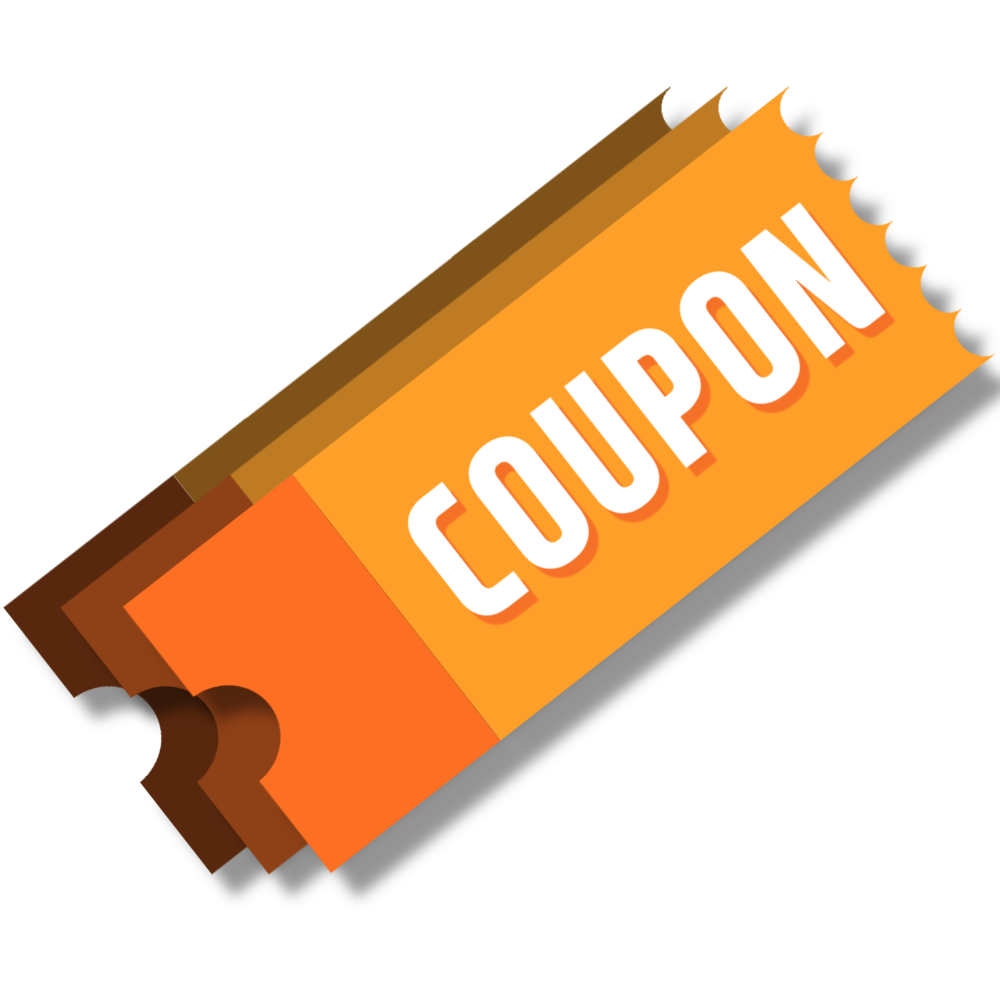
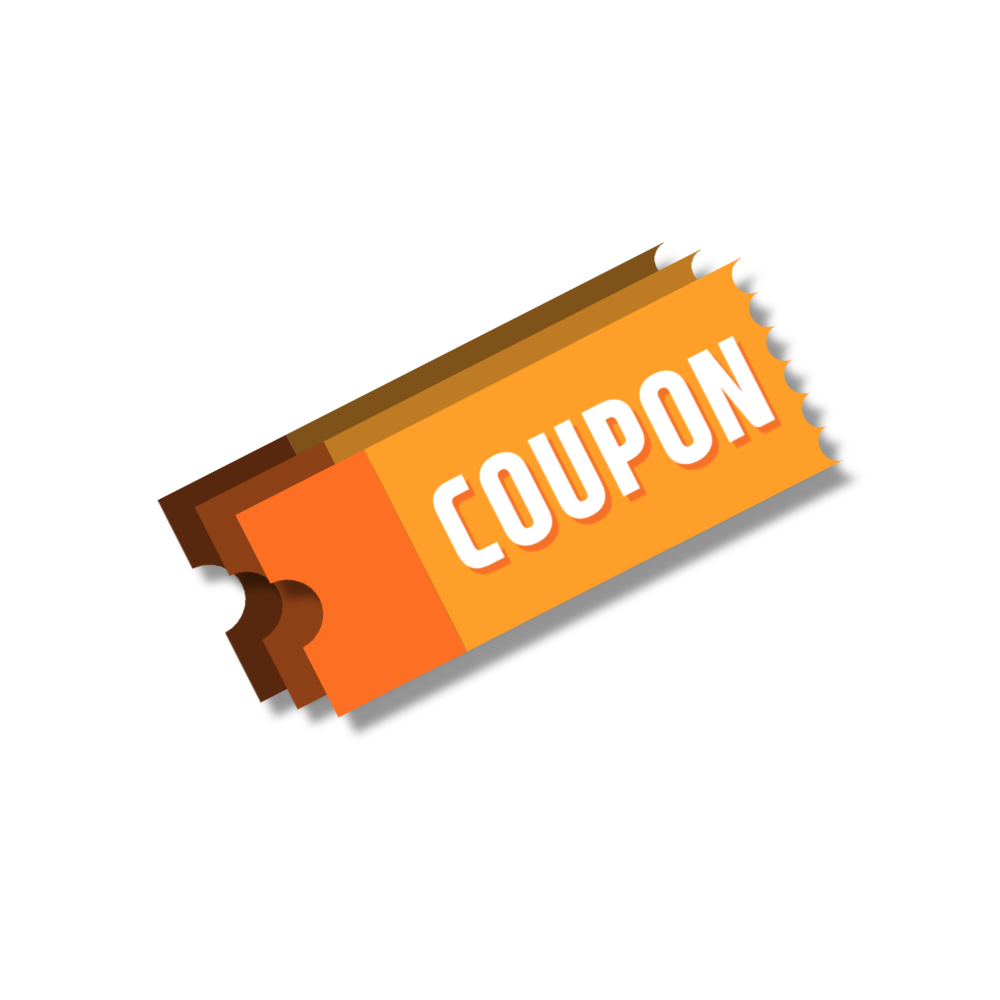
#140 feature: store-index 쿠폰 보러가기 이미지 변경

diff --git a/src/main/resources/templates/store/store_index.html b/src/main/resources/templates/store/store_index.html
@@ -83,15 +83,15 @@
 
                         <div class="carousel-inner" role="listbox">
 
-                            <div class="item active" style="background-image:url('/images/slider-small-1.png')">
+                            <div class="item active coupon-banner-3" style="background-image:url('/images/banner-3.png')">
 
                                 <div class="carousel-caption">
 
-                                    <h3>원더풀 월드</h3>
+                                    <h3>쿠폰북</h3>
 
                                     <p>Save up to 50%</p>
 
-                                    <a href="" class="btn btn-theme">보러 가기</a>
+                                    <a href="/coupons" class="btn btn-theme">보러 가기</a>
 
                                 </div>
 
@@ -111,65 +111,65 @@
 
 </div>
 
-<div class="banner">
+<!--<div class="banner">-->
 
-    <div class="container">
+<!--    <div class="container">-->
 
-        <div class="row">
+<!--        <div class="row">-->
 
-            <div class="col-md-4 col-sm-4">
+<!--            <div class="col-md-4 col-sm-4">-->
 
-                <div class="single-banner" style="background-image:url(/images/image.png);" >
+<!--                <div class="single-banner" style="background-image:url(/images/image.png);" >-->
 
-                    <div class="banner-caption">
+<!--                    <div class="banner-caption">-->
 
-                        <h3> 오늘의 작가 </h3> <h2 class="raleway"> 이상민 작가</h2>
+<!--                        <h3> 오늘의 작가 </h3> <h2 class="raleway"> 이상민 작가</h2>-->
 
-                        <a href="" class="btn btn-theme">보러 가기</a>
+<!--                        <a href="" class="btn btn-theme">보러 가기</a>-->
 
-                    </div>
+<!--                    </div>-->
 
-                </div>
+<!--                </div>-->
 
-            </div>
+<!--            </div>-->
 
-            <div class="col-md-4 col-sm-4">
+<!--            <div class="col-md-4 col-sm-4">-->
 
-                <div class="single-banner" style="background-image:url(/images/banner-2.jpg)">
+<!--                <div class="single-banner" style="background-image:url(/images/banner-2.jpg)">-->
 
-                    <div class="banner-caption">
+<!--                    <div class="banner-caption">-->
 
-                        <h3>Men Shirt Collection</h3>
+<!--                        <h3>Men Shirt Collection</h3>-->
 
-                        <a href="" class="btn btn-theme">보러 가기</a>
+<!--                        <a href="" class="btn btn-theme">보러 가기</a>-->
 
-                    </div>
+<!--                    </div>-->
 
-                </div>
+<!--                </div>-->
 
-            </div>
+<!--            </div>-->
 
-            <div class="col-md-4 col-sm-4">
+<!--            <div class="col-md-4 col-sm-4">-->
 
-                <div class="single-banner" style="background-image:url(/images/banner-3.png)">
+<!--                <div class="single-banner" style="background-image:url(/images/banner-3.png)">-->
 
-                    <div class="banner-caption">
+<!--                    <div class="banner-caption">-->
 
-                        <h3>쿠폰북<br> EVENT</h3>
+<!--                        <h3>쿠폰북<br> EVENT</h3>-->
 
-                        <a href="/coupons" class="btn btn-theme">보러 가기</a>
+<!--                        <a href="/coupons" class="btn btn-theme">보러 가기</a>-->
 
-                    </div>
+<!--                    </div>-->
 
-                </div>
+<!--                </div>-->
 
-            </div>
+<!--            </div>-->
 
-        </div>
+<!--        </div>-->
 
-    </div>
+<!--    </div>-->
 
-</div>
+<!--</div>-->
 
 
 
@@ -1397,105 +1397,105 @@
 
 
 
-<div class="blog">
+<!--<div class="blog">-->
 
-    <div class="container">
+<!--    <div class="container">-->
 
-        <div class="row">
+<!--        <div class="row">-->
 
-            <div class="blog-title">
+<!--            <div class="blog-title">-->
 
-                <h2 class="pull-left text-left">From The Blog</h2>
+<!--                <h2 class="pull-left text-left">From The Blog</h2>-->
 
-                <a href="" class="pull-right text-right">More Post <i class="fa fa-long-arrow-right"></i></a>
+<!--                <a href="" class="pull-right text-right">More Post <i class="fa fa-long-arrow-right"></i></a>-->
 
-            </div>
+<!--            </div>-->
 
-            <div class="clearfix"></div>
+<!--            <div class="clearfix"></div>-->
 
-            <div class="col-md-4 col-sm-4">
+<!--            <div class="col-md-4 col-sm-4">-->
 
-                <div class="single-post">
+<!--                <div class="single-post">-->
 
-                    <div class="post-inner">
+<!--                    <div class="post-inner">-->
 
-                        <div class="post-thumbnail">
+<!--                        <div class="post-thumbnail">-->
 
-                            <img src="images/post-1.jpg" alt="">
+<!--                            <img src="images/post-1.jpg" alt="">-->
 
-                            <div class="date">31<br> Jun</div>
+<!--                            <div class="date">31<br> Jun</div>-->
 
-                            <a href="" class="read-more raleway">Read More <i class="fa fa-long-arrow-right"></i>
+<!--                            <a href="" class="read-more raleway">Read More <i class="fa fa-long-arrow-right"></i>-->
 
-                            </a>
+<!--                            </a>-->
 
-                        </div>
+<!--                        </div>-->
 
-                        <h4 class="post-title">Party Night Dresses Available Delivery Let's Start</h4>
+<!--                        <h4 class="post-title">Party Night Dresses Available Delivery Let's Start</h4>-->
 
-                    </div>
+<!--                    </div>-->
 
-                </div>
+<!--                </div>-->
 
-            </div>
+<!--            </div>-->
 
-            <div class="col-md-4 col-sm-4">
+<!--            <div class="col-md-4 col-sm-4">-->
 
-                <div class="single-post">
+<!--                <div class="single-post">-->
 
-                    <div class="post-inner">
+<!--                    <div class="post-inner">-->
 
-                        <div class="post-thumbnail">
+<!--                        <div class="post-thumbnail">-->
 
-                            <img src="images/post-2.jpg" alt="">
+<!--                            <img src="images/post-2.jpg" alt="">-->
 
-                            <div class="date">31<br> Jun</div>
+<!--                            <div class="date">31<br> Jun</div>-->
 
-                            <a href="" class="read-more raleway">Read More <i class="fa fa-long-arrow-right"></i>
+<!--                            <a href="" class="read-more raleway">Read More <i class="fa fa-long-arrow-right"></i>-->
 
-                            </a>
+<!--                            </a>-->
 
-                        </div>
+<!--                        </div>-->
 
-                        <h4 class="post-title">At the early beginnings of the Web written content</h4>
+<!--                        <h4 class="post-title">At the early beginnings of the Web written content</h4>-->
 
-                    </div>
+<!--                    </div>-->
 
-                </div>
+<!--                </div>-->
 
-            </div>
+<!--            </div>-->
 
-            <div class="col-md-4 col-sm-4">
+<!--            <div class="col-md-4 col-sm-4">-->
 
-                <div class="single-post">
+<!--                <div class="single-post">-->
 
-                    <div class="post-inner">
+<!--                    <div class="post-inner">-->
 
-                        <div class="post-thumbnail">
+<!--                        <div class="post-thumbnail">-->
 
-                            <img src="images/post-3.jpg" alt="">
+<!--                            <img src="images/post-3.jpg" alt="">-->
 
-                            <div class="date">31<br> Jun</div>
+<!--                            <div class="date">31<br> Jun</div>-->
 
-                            <a href="" class="read-more raleway">Read More <i class="fa fa-long-arrow-right"></i>
+<!--                            <a href="" class="read-more raleway">Read More <i class="fa fa-long-arrow-right"></i>-->
 
-                            </a>
+<!--                            </a>-->
 
-                        </div>
+<!--                        </div>-->
 
-                        <h4 class="post-title">Let’s start with the most essential part of any written content</h4>
+<!--                        <h4 class="post-title">Let’s start with the most essential part of any written content</h4>-->
 
-                    </div>
+<!--                    </div>-->
 
-                </div>
+<!--                </div>-->
 
-            </div>
+<!--            </div>-->
 
-        </div>
+<!--        </div>-->
 
-    </div>
+<!--    </div>-->
 
-</div>
+<!--</div>-->
 
 <div class="shopping-process text-center">
 
@@ -1564,24 +1564,6 @@
     </div>
 
 </div>
-
-
-<nav aria-label="Page navigation example">
-    <ul class="pagination">
-        <li class="page-item disabled">
-            <a class="page-link" href="#" tabindex="-1">Previous</a>
-        </li>
-        <li class="page-item"><a class="page-link" href="#">1</a></li>
-        <li class="page-item"><a class="page-link" href="#">2</a></li>
-        <li class="page-item"><a class="page-link" href="#">3</a></li>
-        <li class="page-item">
-            <a class="page-link" href="#">Next</a>
-        </li>
-    </ul>
-</nav>
-
-
-
 
 
 <div th:replace="~{layout/store/footer::footer}"></div>
